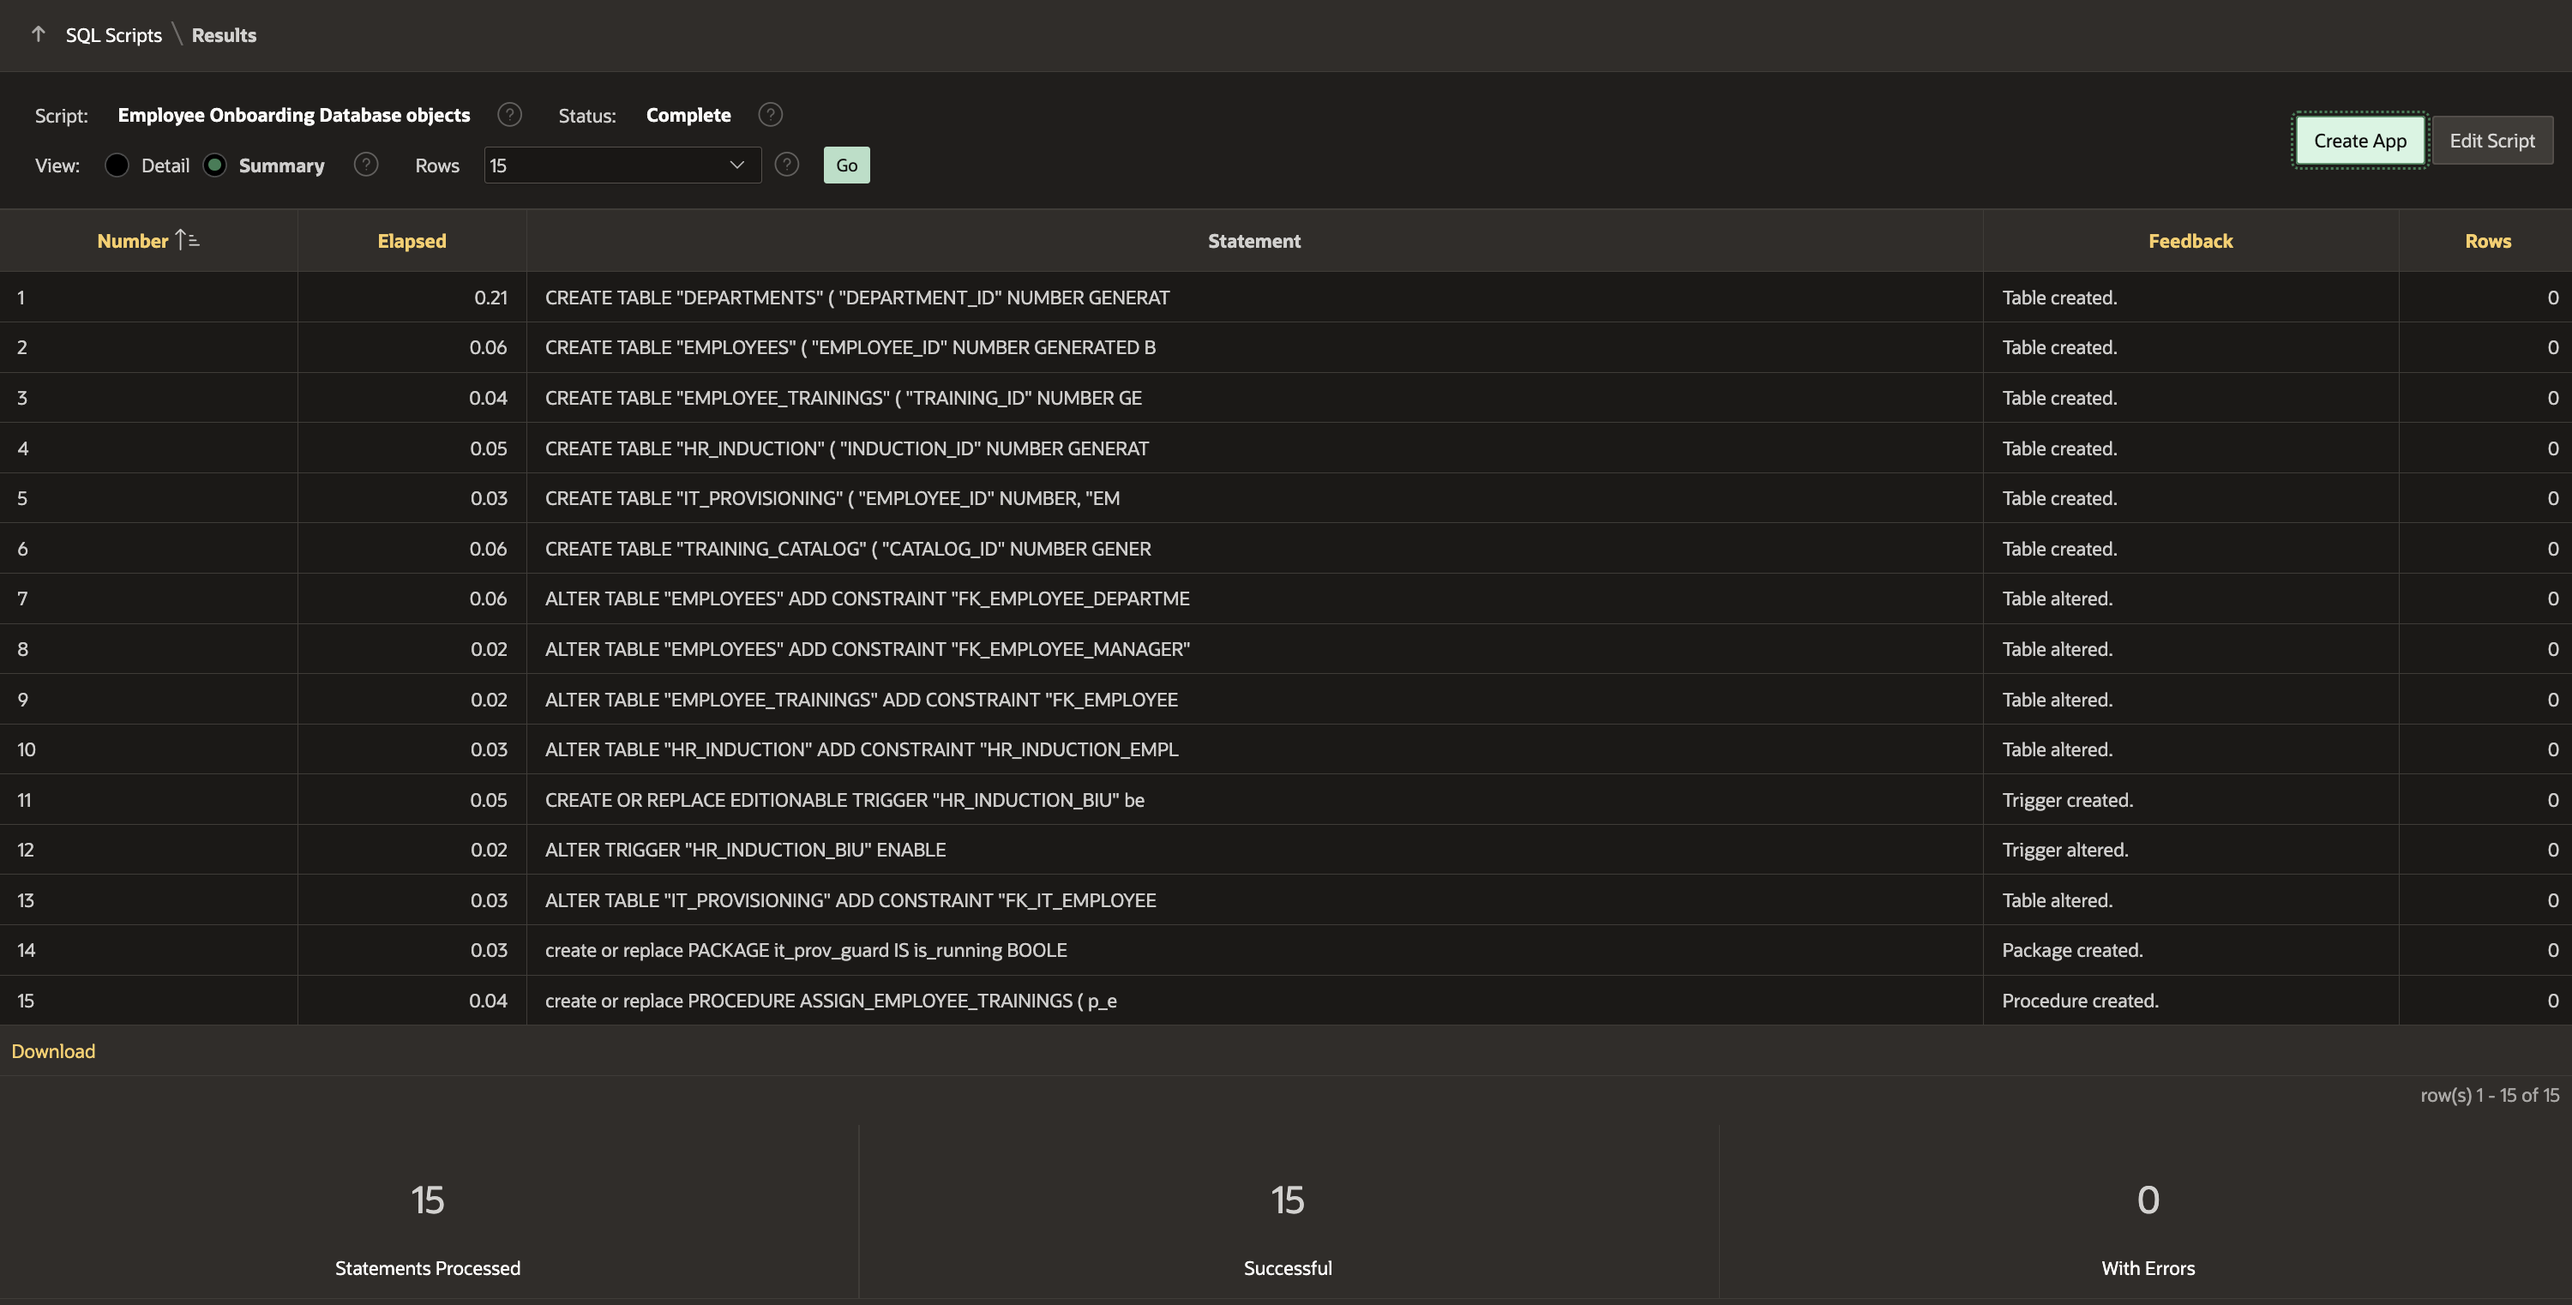
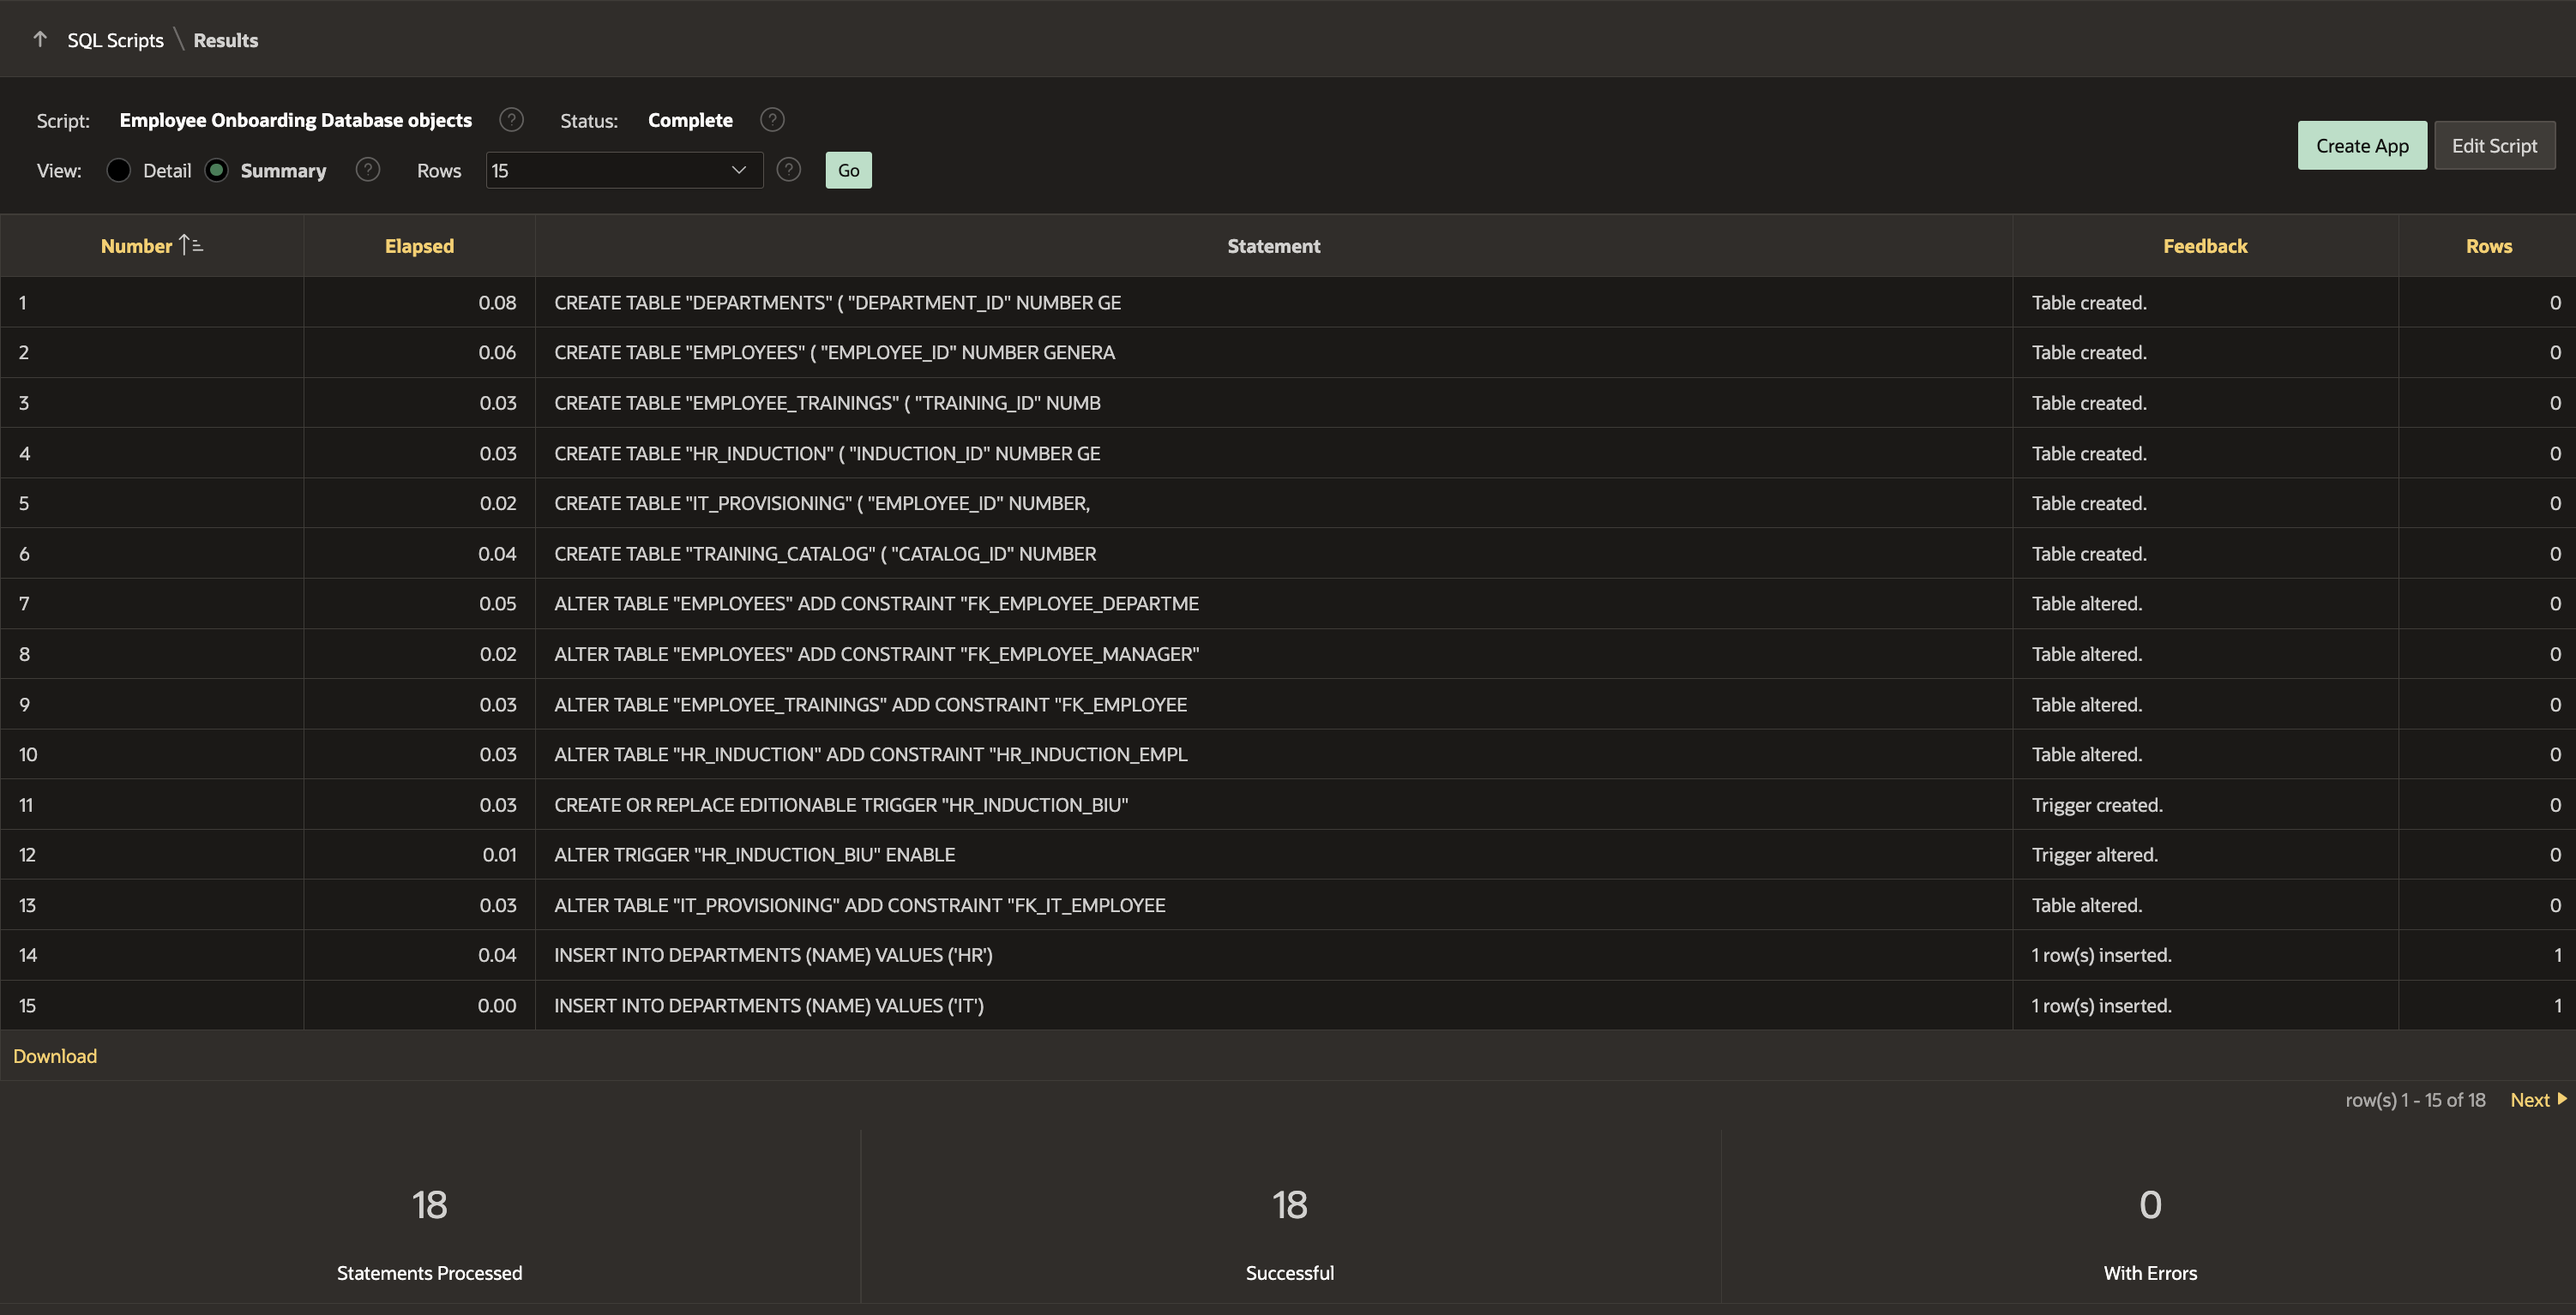
emp onboarding

diff --git a/employee-onboarding/2-data-load/2-data-load.md b/employee-onboarding/2-data-load/2-data-load.md
@@ -142,6 +142,12 @@ In this task you will use SQL Scripts to quickly load and execute the required d
     ALTER TRIGGER "HR_INDUCTION_BIU" ENABLE;
     ALTER TABLE "IT_PROVISIONING" ADD CONSTRAINT "FK_IT_EMPLOYEE" FOREIGN KEY ("EMPLOYEE_ID")
       REFERENCES "EMPLOYEES" ("EMPLOYEE_ID") ENABLE;
+      INSERT INTO DEPARTMENTS (NAME)
+      VALUES ('HR');
+      INSERT INTO DEPARTMENTS (NAME)
+      VALUES ('IT');
+      INSERT INTO DEPARTMENTS (NAME)
+      VALUES ('Sales');
     create or replace PACKAGE it_prov_guard IS
       is_running BOOLEAN := FALSE;
       END it_prov_guard;
@@ -181,12 +187,6 @@ In this task you will use SQL Scripts to quickly load and execute the required d
       END IF;
       COMMIT;
       END ASSIGN_EMPLOYEE_TRAININGS;
-      INSERT INTO DEPARTMENTS (NAME)
-      VALUES ('HR');
-      INSERT INTO DEPARTMENTS (NAME)
-      VALUES ('IT');
-      INSERT INTO DEPARTMENTS (NAME)
-      VALUES ('Sales');
 
     /
     </copy>
@@ -198,7 +198,7 @@ In this task you will use SQL Scripts to quickly load and execute the required d
 
 5. In the confirmation screen, click **Run Now**.
 
-  ![Run SQL Script](images/run-script.png "")
+  ![Run SQL Script](images/load-script.png "")
 
 6. The Results page lists the summary of the executed script.
 
